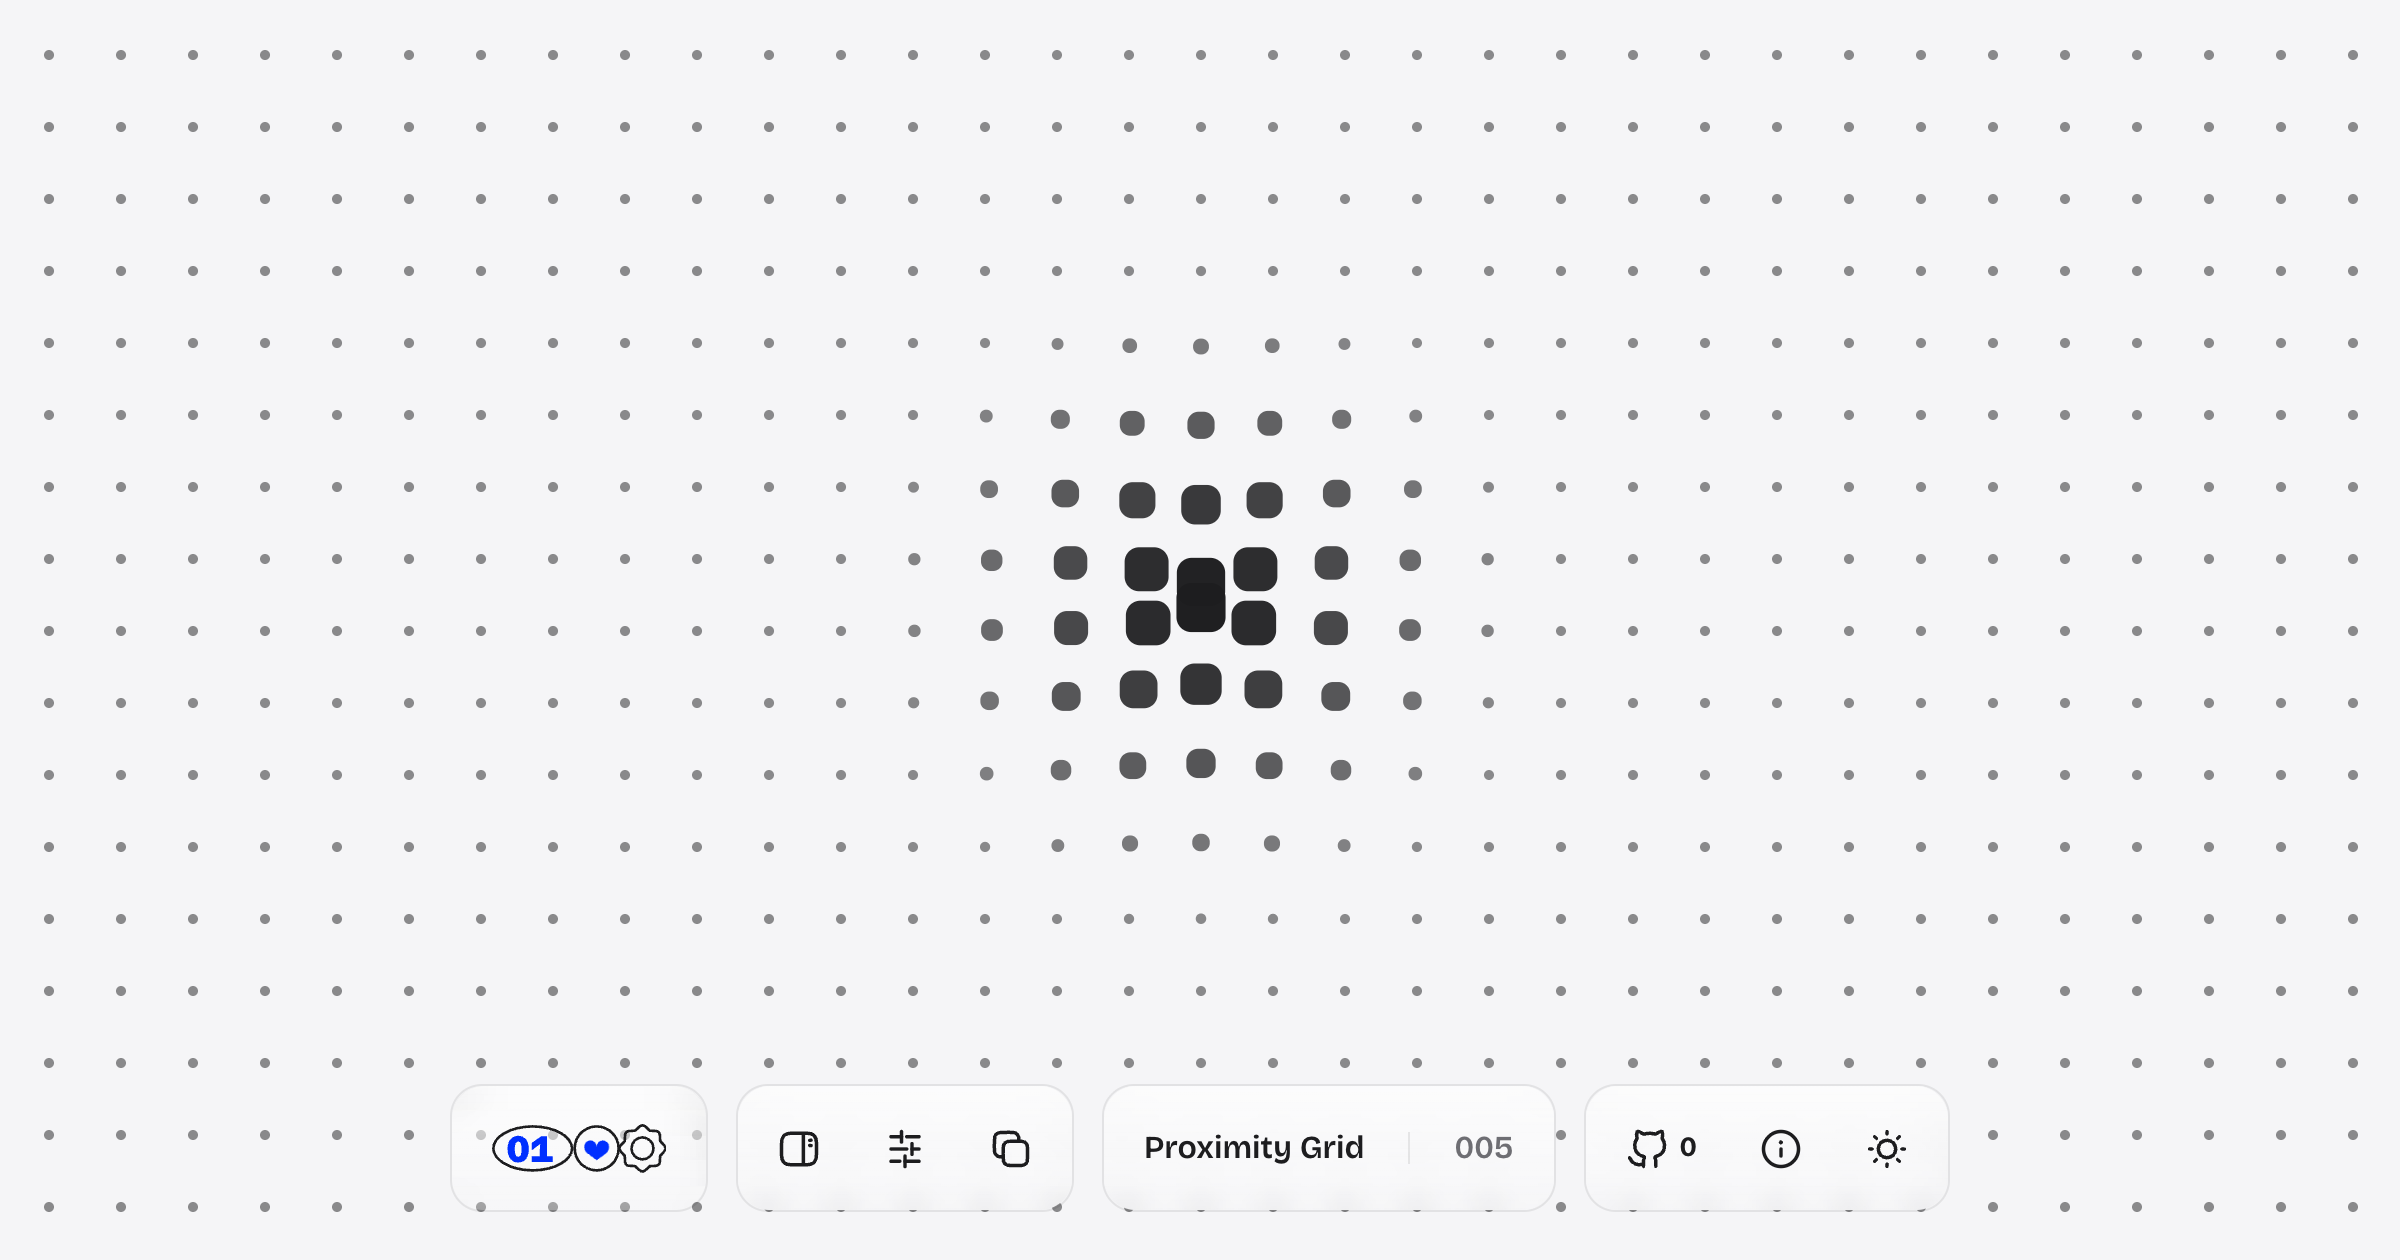
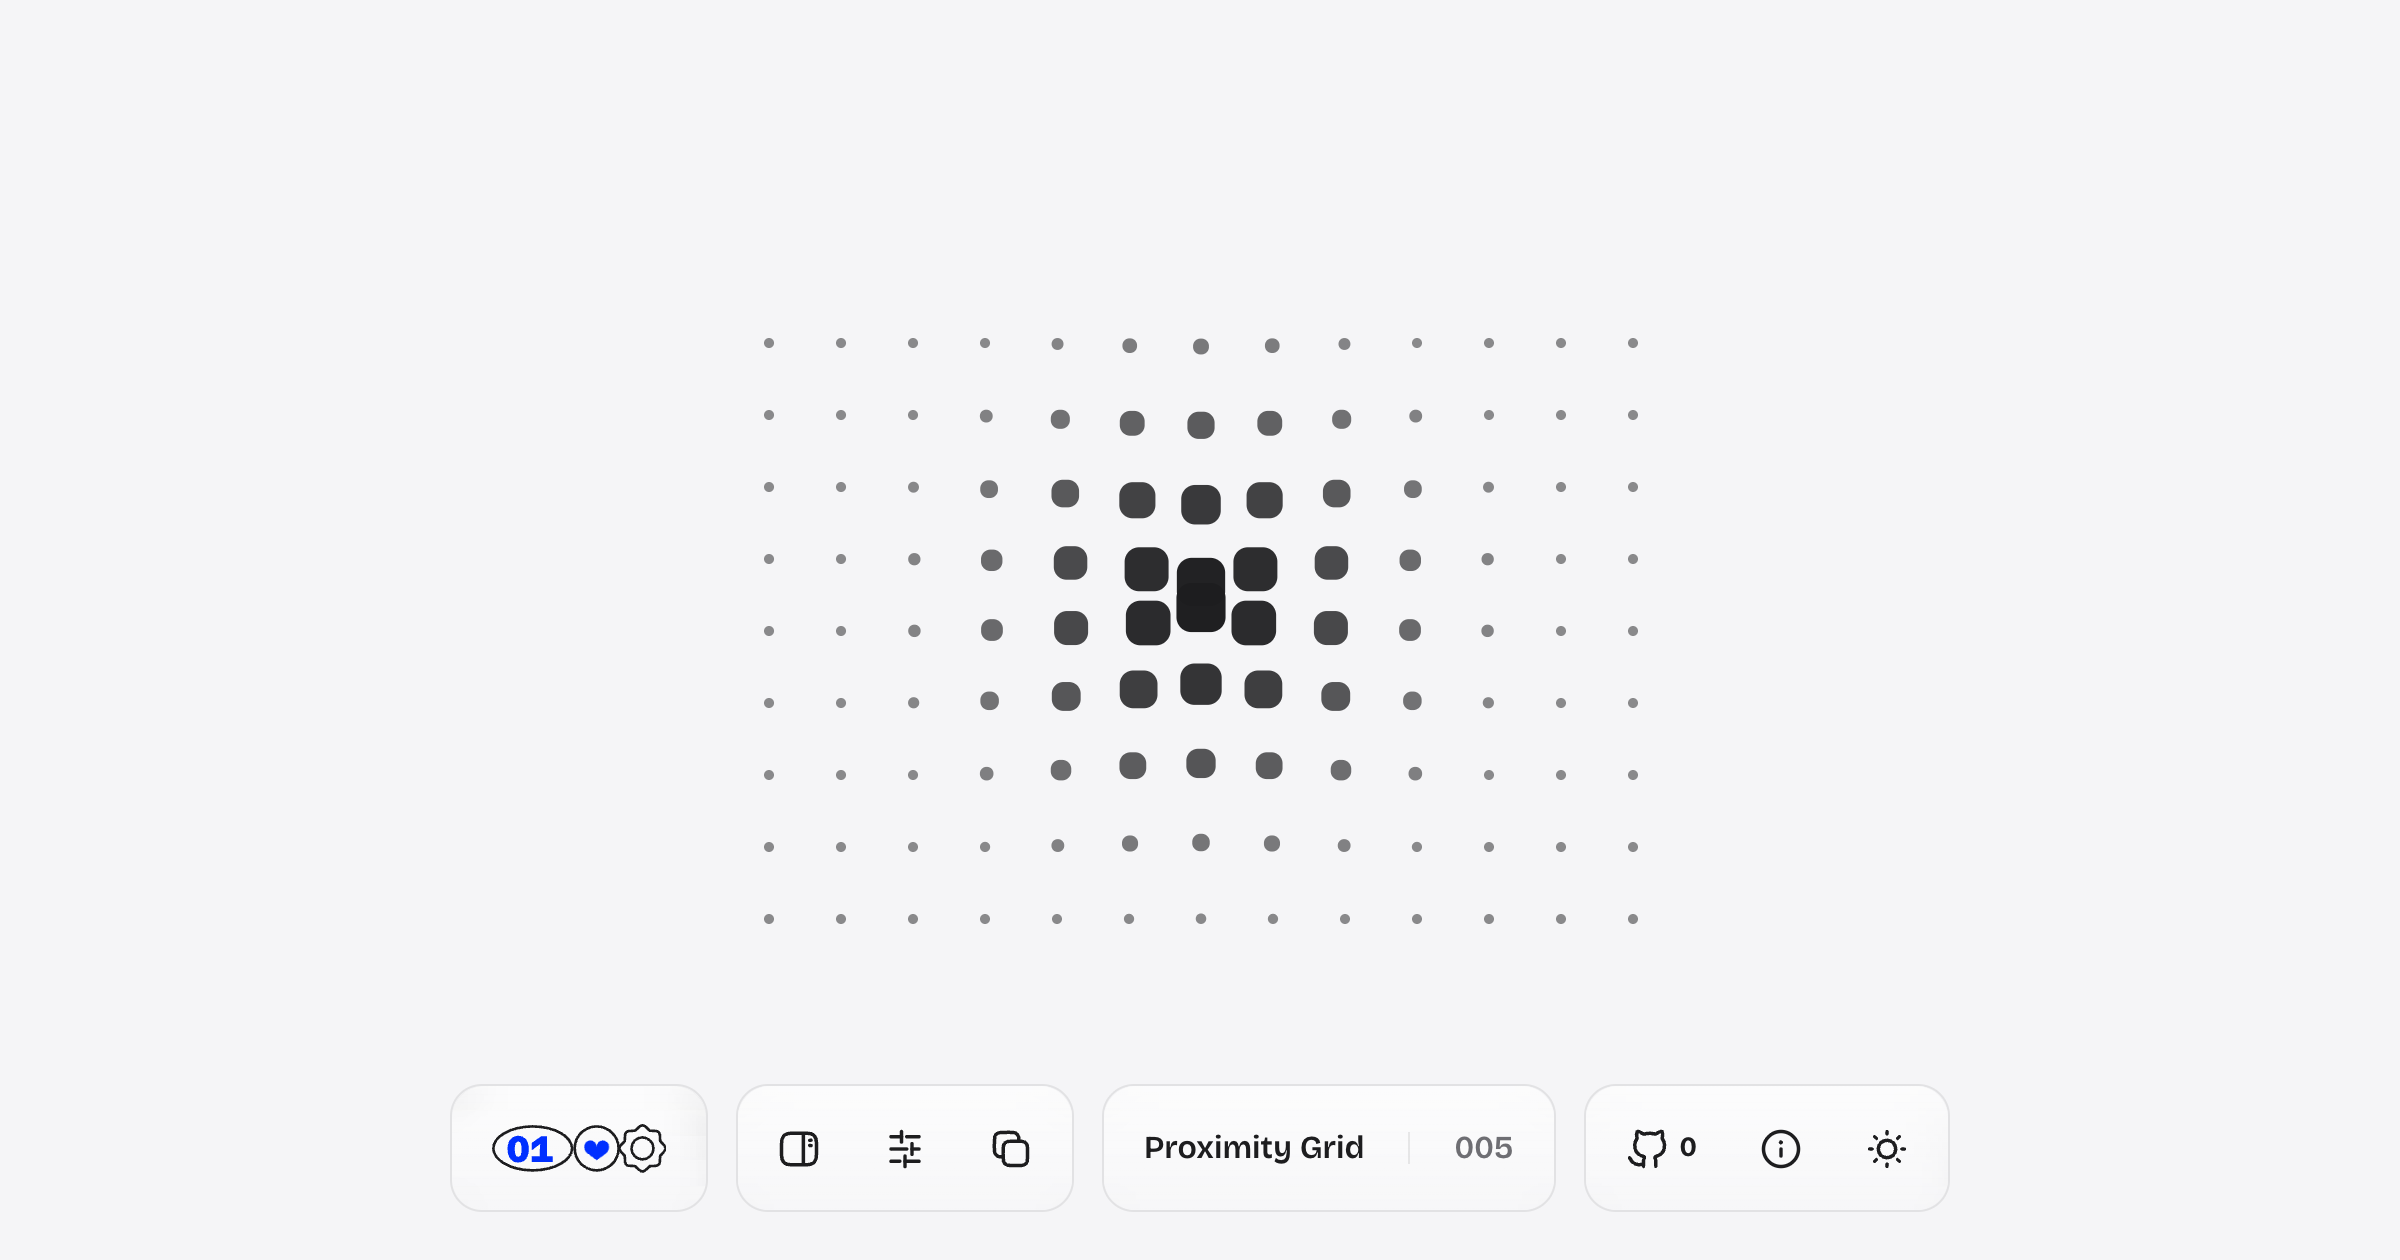
Proximity Grid: contained 13x9 block (cols/rows props) instead of a full-bleed field; tuner gains Columns/Rows

diff --git a/src/interactions/proximity-grid.tsx b/src/interactions/proximity-grid.tsx
@@ -2,7 +2,7 @@
 
 /**
  * 1IAD Day 5 — Proximity Grid
- * A field of tiny dots that feel the cursor: inside the influence radius
+ * A block of tiny dots that feels the cursor: inside the influence radius
  * they bloom into rounded squares, brighten, and get magnetically pulled
  * toward (or pushed away from) the pointer, with a smooth eased falloff.
  *
@@ -14,6 +14,8 @@ import * as React from "react";
 
 export function ProximityGrid({
   className = "relative h-[340px] w-full max-w-[520px] rounded-3xl border border-black/10 dark:border-white/15",
+  cols = 13, // grid size, centered in the container
+  rows = 9,
   influence = 170, // px radius the cursor reaches
   magnet = 12, // px of pull at full proximity; negative pushes away
   scale = 5, // near size, as a multiple of the resting dot
@@ -23,6 +25,8 @@ export function ProximityGrid({
   dot = 5, // resting dot size in px
 }: {
   className?: string;
+  cols?: number;
+  rows?: number;
   influence?: number;
   magnet?: number;
   scale?: number;
@@ -33,7 +37,7 @@ export function ProximityGrid({
 }) {
   const viewRef = React.useRef<HTMLDivElement>(null);
   const cellRefs = React.useRef<(HTMLSpanElement | null)[]>([]);
-  const [grid, setGrid] = React.useState({ cols: 0, rows: 0 });
+  const grid = { cols, rows };
   // latest prop values for the rAF loop without re-subscribing it
   const cfg = React.useRef({ influence, magnet, scale, radius, dimmed });
   React.useEffect(() => {
@@ -42,21 +46,8 @@ export function ProximityGrid({
 
   React.useEffect(() => {
     const view = viewRef.current!;
-    const measure = () => {
-      const r = view.getBoundingClientRect();
-      const cols = Math.max(1, Math.floor(r.width / spacing));
-      const rows = Math.max(1, Math.floor(r.height / spacing));
-      setGrid((g) => (g.cols === cols && g.rows === rows ? g : { cols, rows }));
-    };
-    measure();
-    const ro = new ResizeObserver(measure);
-    ro.observe(view);
-    return () => ro.disconnect();
-  }, [spacing]);
-
-  React.useEffect(() => {
-    const view = viewRef.current!;
     const reduced = matchMedia("(prefers-reduced-motion: reduce)").matches;
+    const grid = { cols, rows };
     const n = grid.cols * grid.rows;
     // per-cell eased proximity, smoothed per frame for a springy feel
     const cur = new Float32Array(n);
@@ -116,11 +107,11 @@ export function ProximityGrid({
       view.removeEventListener("pointerdown", onMove);
       view.removeEventListener("pointerleave", onLeave);
     };
-  }, [grid, spacing]);
+  }, [cols, rows, spacing]);
 
   return (
     <div ref={viewRef} className={`${className} touch-none overflow-hidden`}>
-      {grid.cols > 0 && (
+      {(
         <div
           aria-hidden="true"
           className="absolute grid"

diff --git a/src/components/proximity-tuner.tsx b/src/components/proximity-tuner.tsx
@@ -9,6 +9,8 @@ import { motion } from "motion/react";
 import {
   IconArrowsMove,
   IconCircleHalf2,
+  IconLayoutColumns,
+  IconLayoutRows,
   IconMagnet,
   IconRadar2,
   IconResize,
@@ -18,6 +20,8 @@ import { DialRow, rise, TunerHeader } from "./tuner-controls";
 import { ProximityGrid } from "@/interactions/proximity-grid";
 
 type Knobs = {
+  cols: number;
+  rows: number;
   influence: number;
   magnet: number;
   scale: number;
@@ -26,6 +30,8 @@ type Knobs = {
   spacing: number;
 };
 const DEFAULTS: Knobs = {
+  cols: 13,
+  rows: 9,
   influence: 170,
   magnet: 12,
   scale: 5,
@@ -56,6 +62,8 @@ export function ProximityStageTuned() {
 }
 
 const ROWS = [
+  { key: "cols", icon: IconLayoutColumns, label: "Columns", min: 3, max: 30, step: 1, unit: "" },
+  { key: "rows", icon: IconLayoutRows, label: "Rows", min: 3, max: 20, step: 1, unit: "" },
   { key: "influence", icon: IconRadar2, label: "Influence", min: 60, max: 420, step: 5, unit: "px" },
   { key: "magnet", icon: IconMagnet, label: "Magnet", min: -40, max: 40, step: 1, unit: "px" },
   { key: "scale", icon: IconResize, label: "Scale", min: 1, max: 9, step: 0.25, unit: "×" },

diff --git a/src/interactions/meta.ts b/src/interactions/meta.ts
@@ -68,7 +68,7 @@ export const interactionsMeta: InteractionMeta[] = [
     date: "2026-08-22",
     title: "Proximity Grid",
     description:
-      "A field of dots that feels your cursor: inside the influence radius they bloom into rounded squares, brighten, and get magnetically pulled toward the pointer with a smooth eased falloff. Flip the magnet negative and the grid repels instead.",
+      "A block of dots that feels your cursor: inside the influence radius they bloom into rounded squares, brighten, and get magnetically pulled toward the pointer with a smooth eased falloff. Flip the magnet negative and the grid repels instead.",
     hint: "Move your cursor. The grid feels it.",
     dependencies: [],
     file: "proximity-grid.tsx",

diff --git a/src/interactions/registry.tsx b/src/interactions/registry.tsx
@@ -40,7 +40,7 @@ const cardComponents: Record<string, ComponentType> = {
   },
   "proximity-grid": function ProximityGridCard() {
     return (
-      <ProximityGrid className="absolute inset-0 bg-background" spacing={26} dot={4} influence={120} magnet={9} />
+      <ProximityGrid className="absolute inset-0 bg-background" cols={11} rows={7} spacing={26} dot={4} influence={120} magnet={9} />
     );
   },
 };
